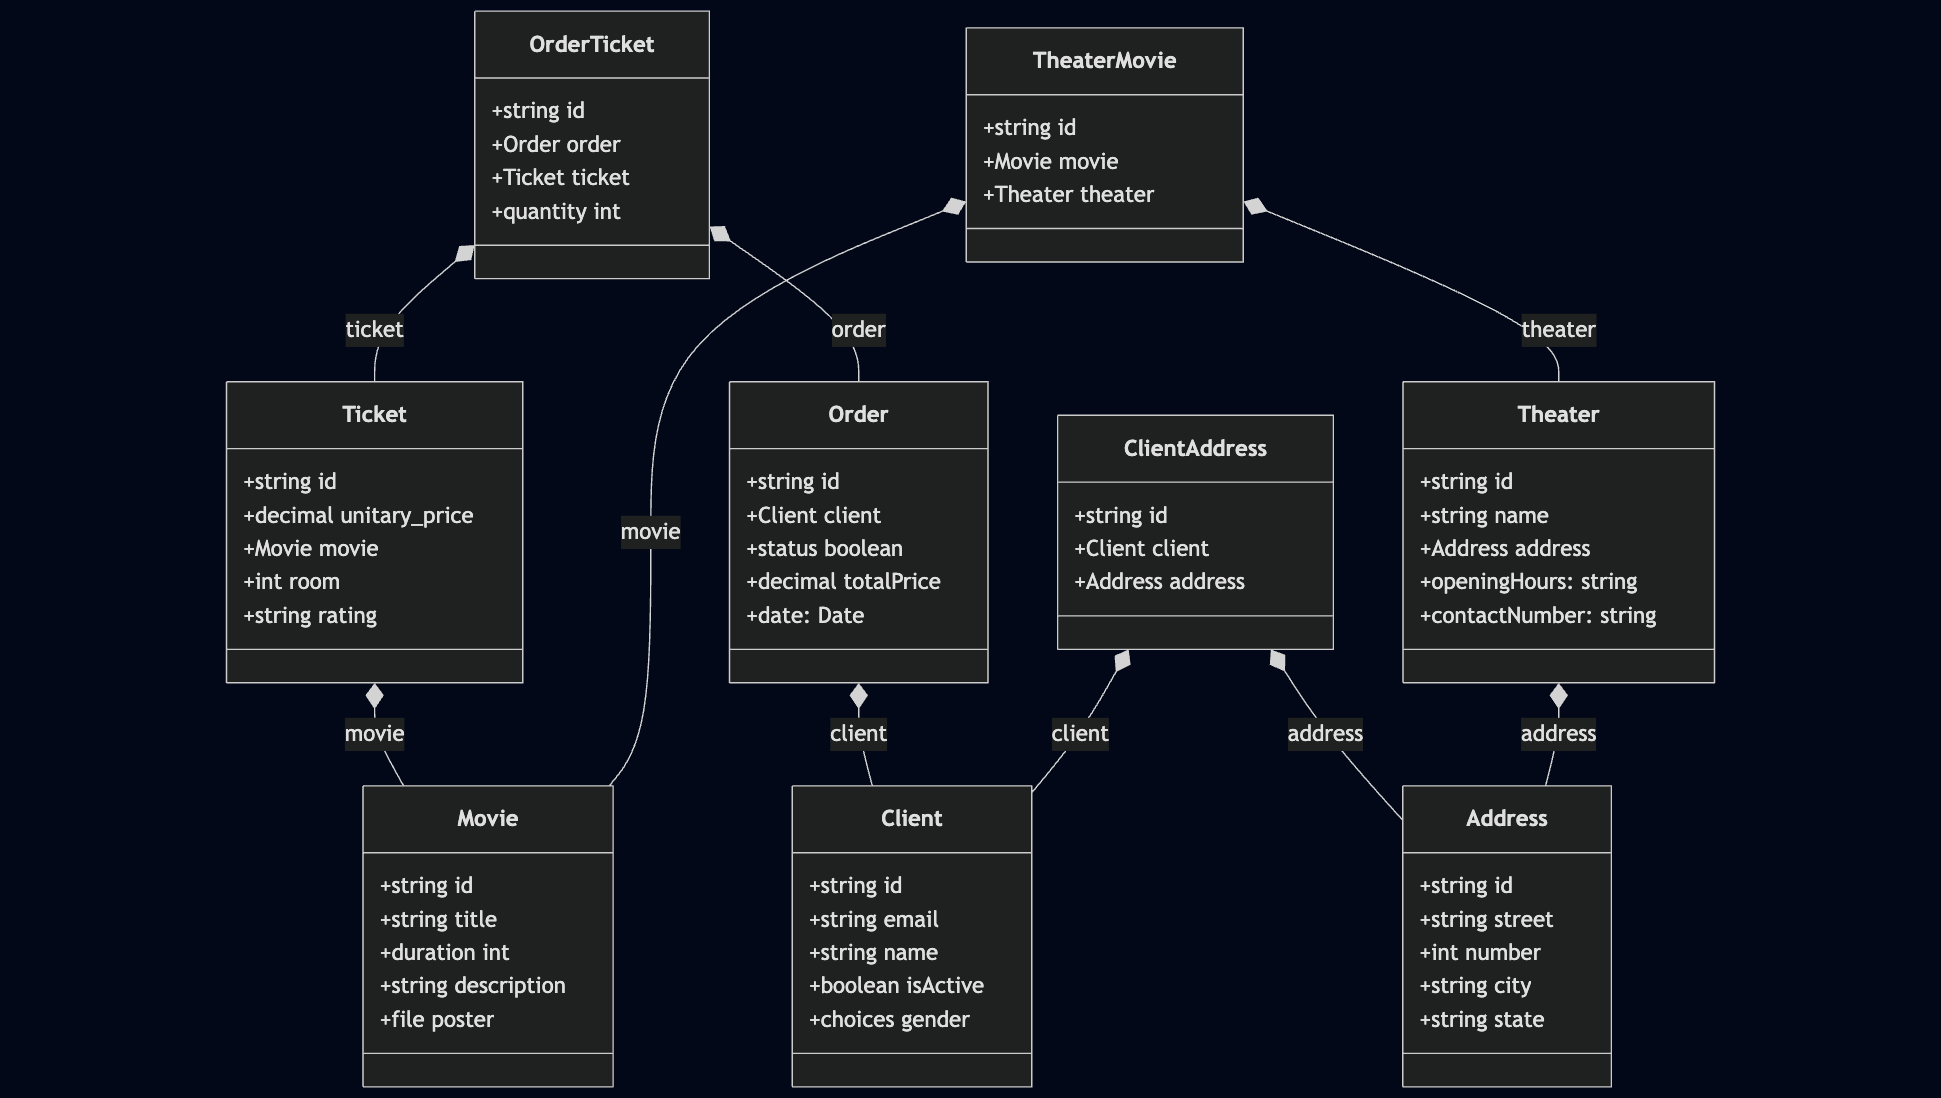
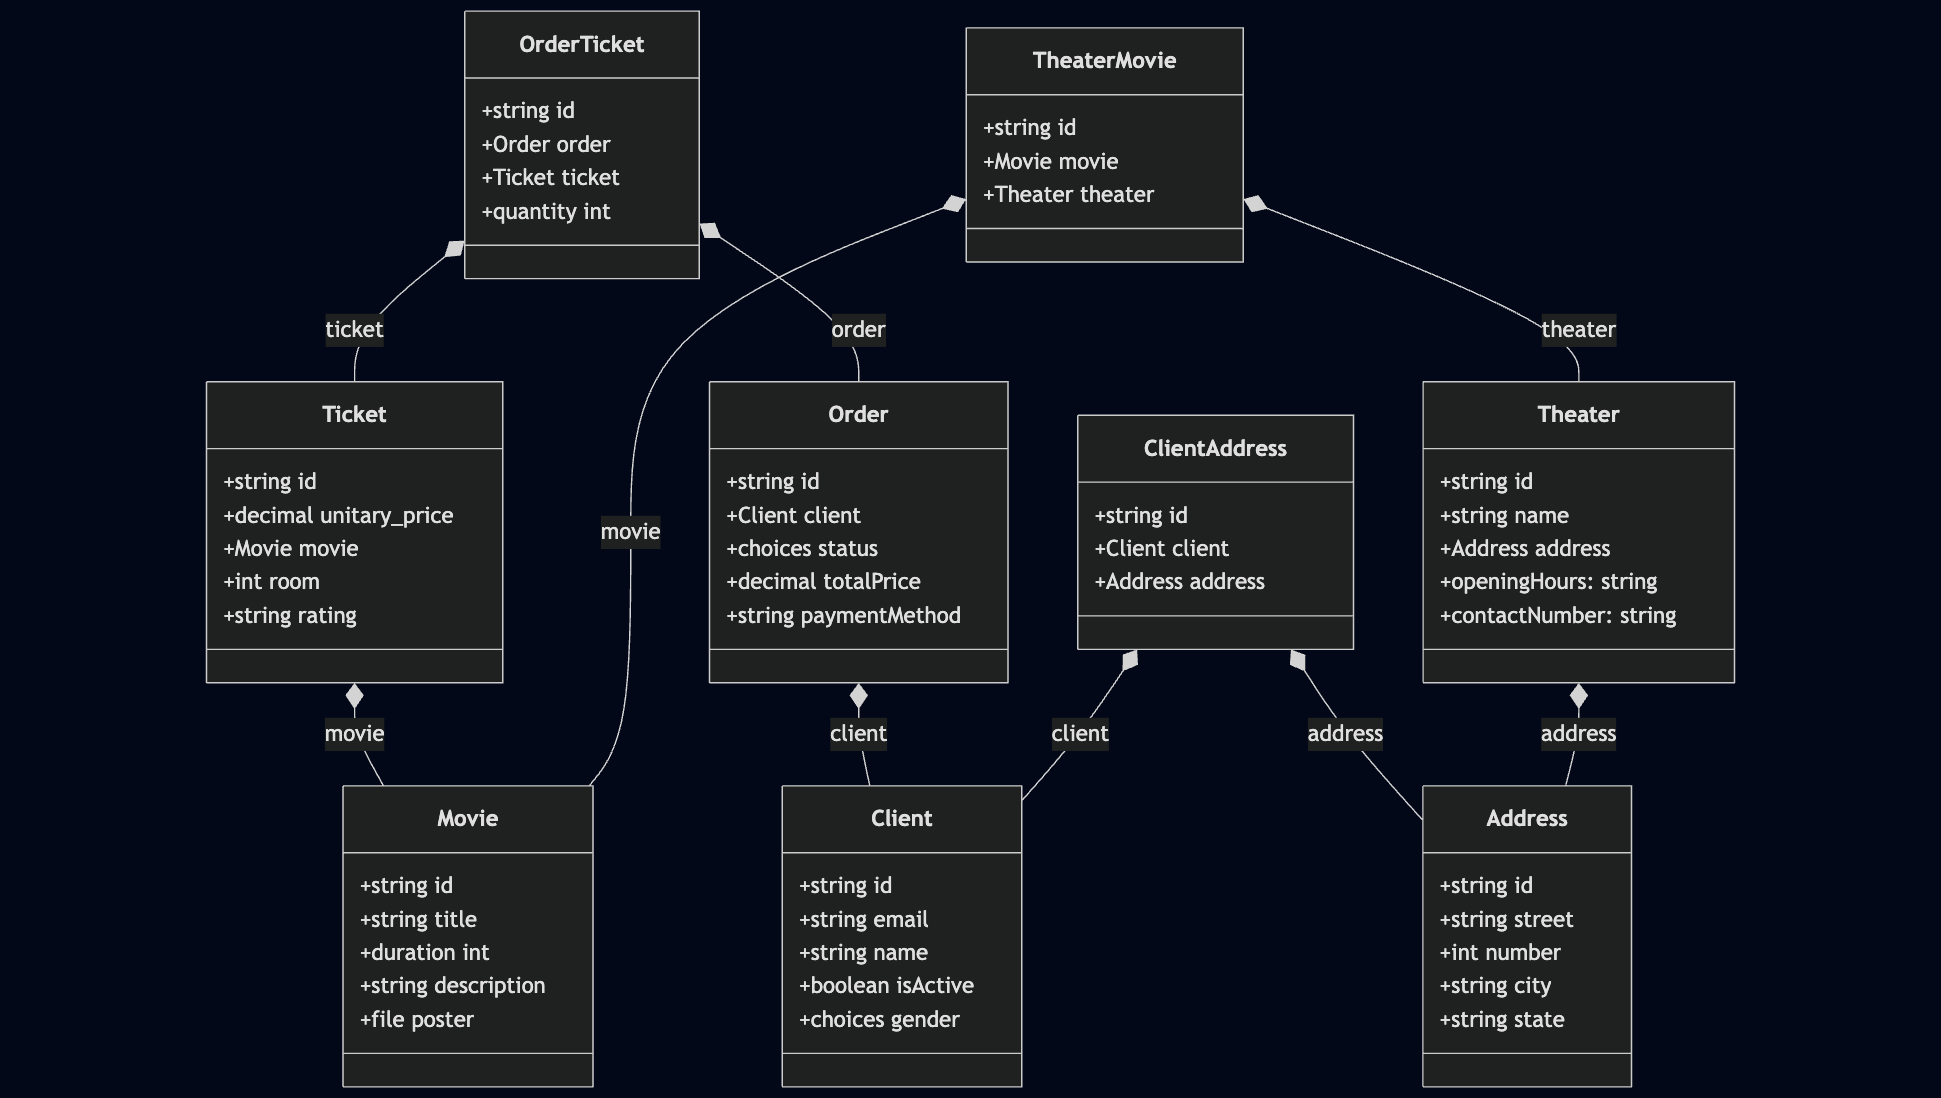
feat: adding order to url patterns and minor fixes

diff --git a/apps/order/models.py b/apps/order/models.py
@@ -3,9 +3,17 @@ from client.models import Client
 
 class Order(models.Model):
     client = models.ForeignKey(Client, on_delete=models.CASCADE, verbose_name='Cliente')
-    status = models.BooleanField('Status', default=False)
     total_price = models.DecimalField('Preço Total', max_digits=8, decimal_places=2)
-    date = models.DateField('Data do Pedido', auto_now_add=True)
+    payment_method = models.CharField('Forma de Pagamento', max_length=30, default='pix', choices=[
+        ('boleto', 'Boleto'),
+        ('cartao', 'Cartão de Crédito'),
+        ('pix', 'PIX'),
+    ])
+    status = models.CharField('Status', max_length=20, default='andamento', choices=[
+        ('andamento', 'Em andamento'),
+        ('finalizado', 'Finalizado'),
+        ('cancelado', 'Cancelado'),
+    ])
 
     class Meta:
         verbose_name = 'Pedido'

diff --git a/cinedk/urls.py b/cinedk/urls.py
@@ -26,6 +26,7 @@ urlpatterns = [
     path('clientes/', include('client.urls', namespace='clientes')),
     path('ingressos/', include('ticket.urls', namespace='ingressos')),
     path('cinemas/', include('theater.urls', namespace='cinemas')),
+    path('pedidos/', include('order.urls', namespace='pedidos')),
 ]
 
 #declararando a pasta caminho e raiz para arquivos que sera enviados 
